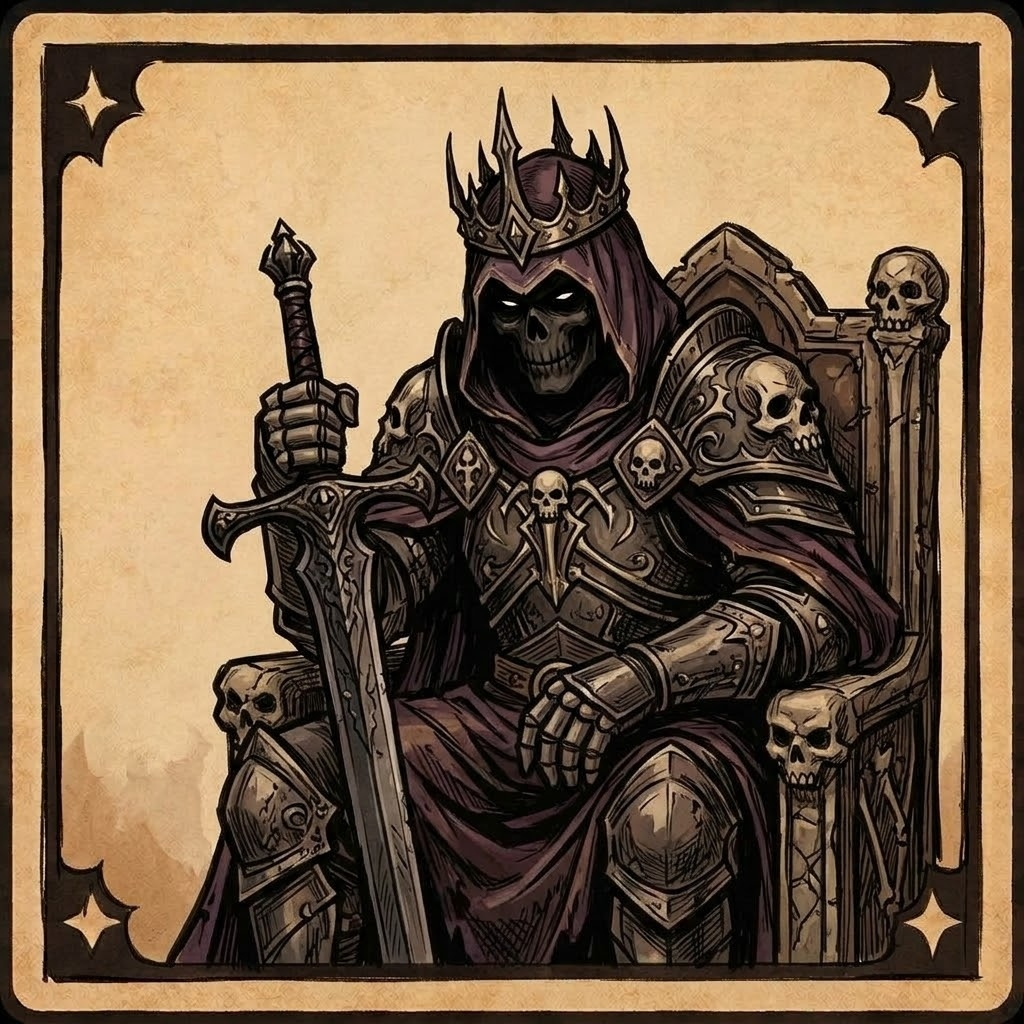
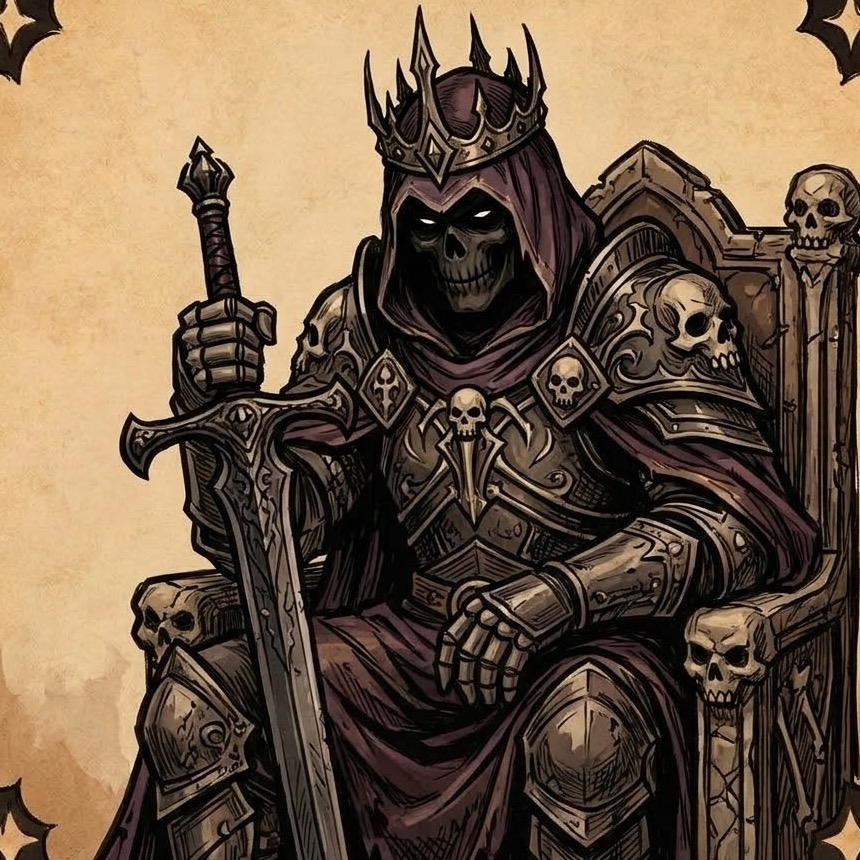
Crop outer black tarot borders from all 11 hero portraits

diff --git a/game.js b/game.js
@@ -1009,17 +1009,17 @@ let prevT=false,lastLk='',flipId=null,lastTot=[0,0],lastBust=false,prevSeal='',s
 const NAMES={c:'Lanetli Tüccar',p:'Veba Doktoru',n:'Kara Şövalye',a:'Simyacı',s:'Büyücü',e:'Cellat',m:'Ölümün Efendisi',w:'Cadı',l:'Kurt Adam',v:'Vampir',u:'BİLİNMEYEN'};
 const avKey=(S,p)=>{if(p===0)return (S.hero&&S.hero[0])||MY_HERO||'c';if(MODE=='bot')return (S.hero&&S.hero[1])||{easy:'c',med:'p',hard:'m',imp:'u'}[DIFF];return (S.hero&&S.hero[p])||(S.av&&S.av[p])||'c'};
 const HD_PORTRAITS={
-  c:'corrupted_merchant.jpg?v=20261116_t6',
-  p:'plague_doctor.jpg?v=20261116_t6',
-  n:'dark_knight.jpg?v=20261116_t6',
-  a:'shadow_alchemist.jpg?v=20261116_t6',
-  s:'crimson_oracle.jpg?v=20261116_t6',
-  e:'iron_executioner.jpg?v=20261116_t6',
-  m:'cursed_king.jpg?v=20261116_t6',
-  w:'necromancer.jpg?v=20261116_t6',
-  l:'werewolf.jpg?v=20261116_t6',
-  v:'vampire.jpg?v=20261116_t16',
-  u:'unknown.jpg?v=20261116_t6'
+  c:'corrupted_merchant.jpg?v=20261116_t18',
+  p:'plague_doctor.jpg?v=20261116_t18',
+  n:'dark_knight.jpg?v=20261116_t18',
+  a:'shadow_alchemist.jpg?v=20261116_t18',
+  s:'crimson_oracle.jpg?v=20261116_t18',
+  e:'iron_executioner.jpg?v=20261116_t18',
+  m:'cursed_king.jpg?v=20261116_t18',
+  w:'necromancer.jpg?v=20261116_t18',
+  l:'werewolf.jpg?v=20261116_t18',
+  v:'vampire.jpg?v=20261116_t18',
+  u:'unknown.jpg?v=20261116_t18'
 };
 const avSrc=k=>HD_PORTRAITS[k]||(k?AV[k]:IMG.bn),oppName=()=>NAMES[avKey(G,1)]||'Rakip';
 const prevAv=[undefined,undefined],morphT=[0,0];

diff --git a/index.html b/index.html
@@ -66,6 +66,6 @@
 <script src="audio_data.js?v=20261114_tavern1"></script>
 <script src="hd.js?v=20261115_hs11"></script>
 <script src="d20_canvas.js?v=20261115_mobperf1"></script>
-<script src="game.js?v=20261116_t16"></script>
+<script src="game.js?v=20261116_t18"></script>
 </body>
 </html>
